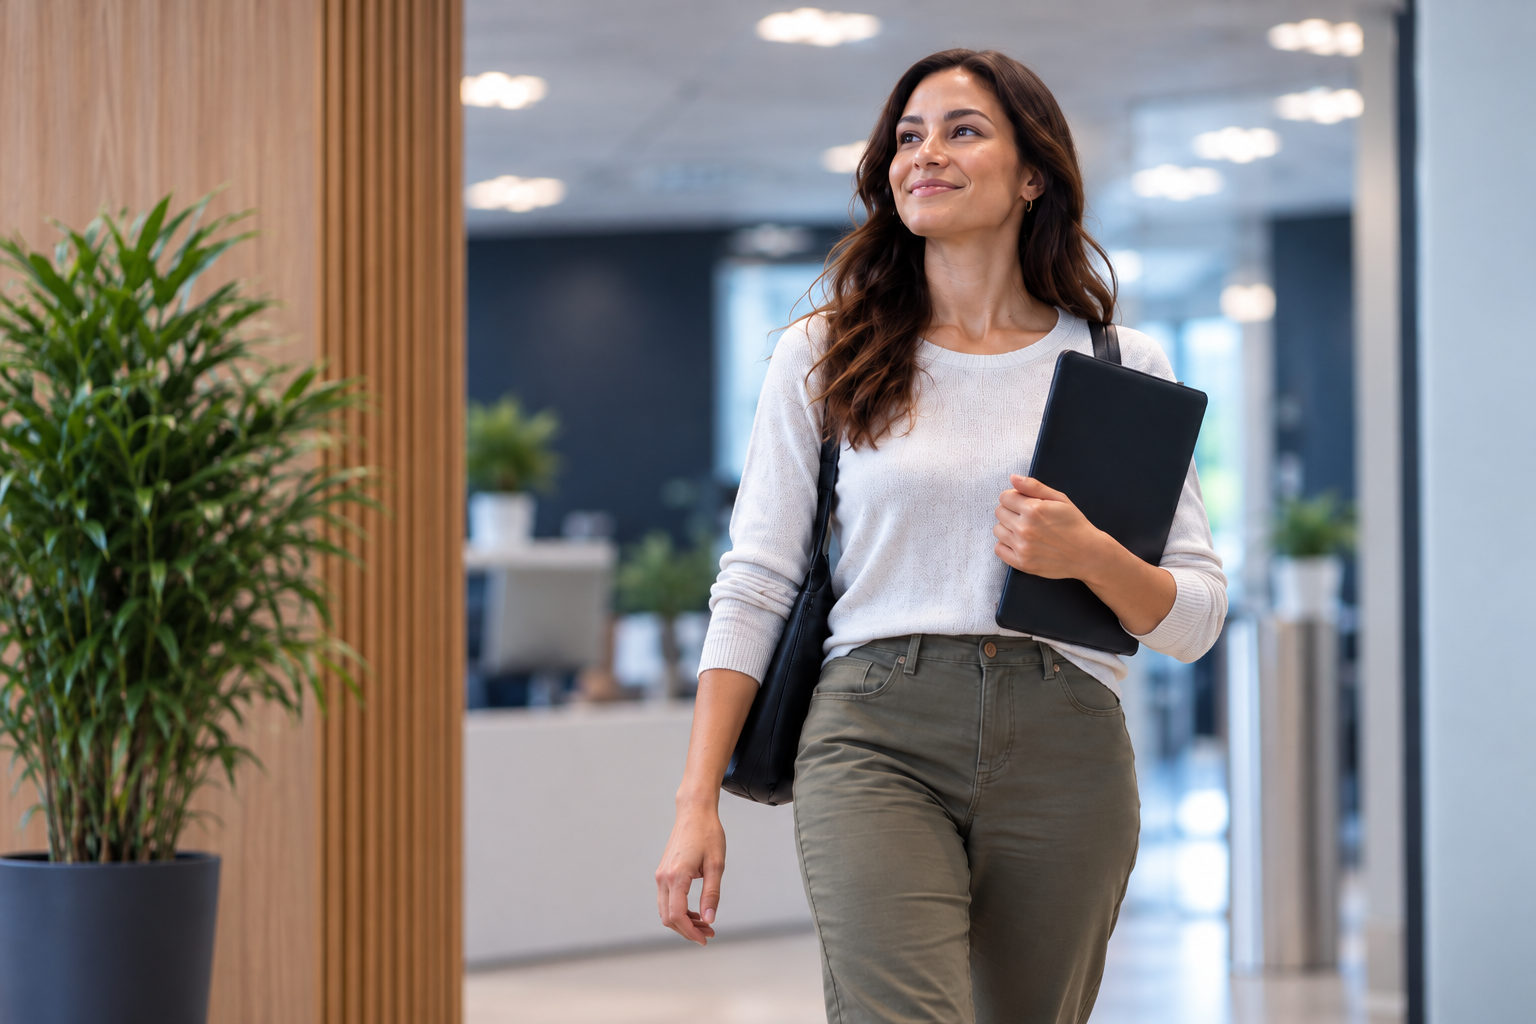
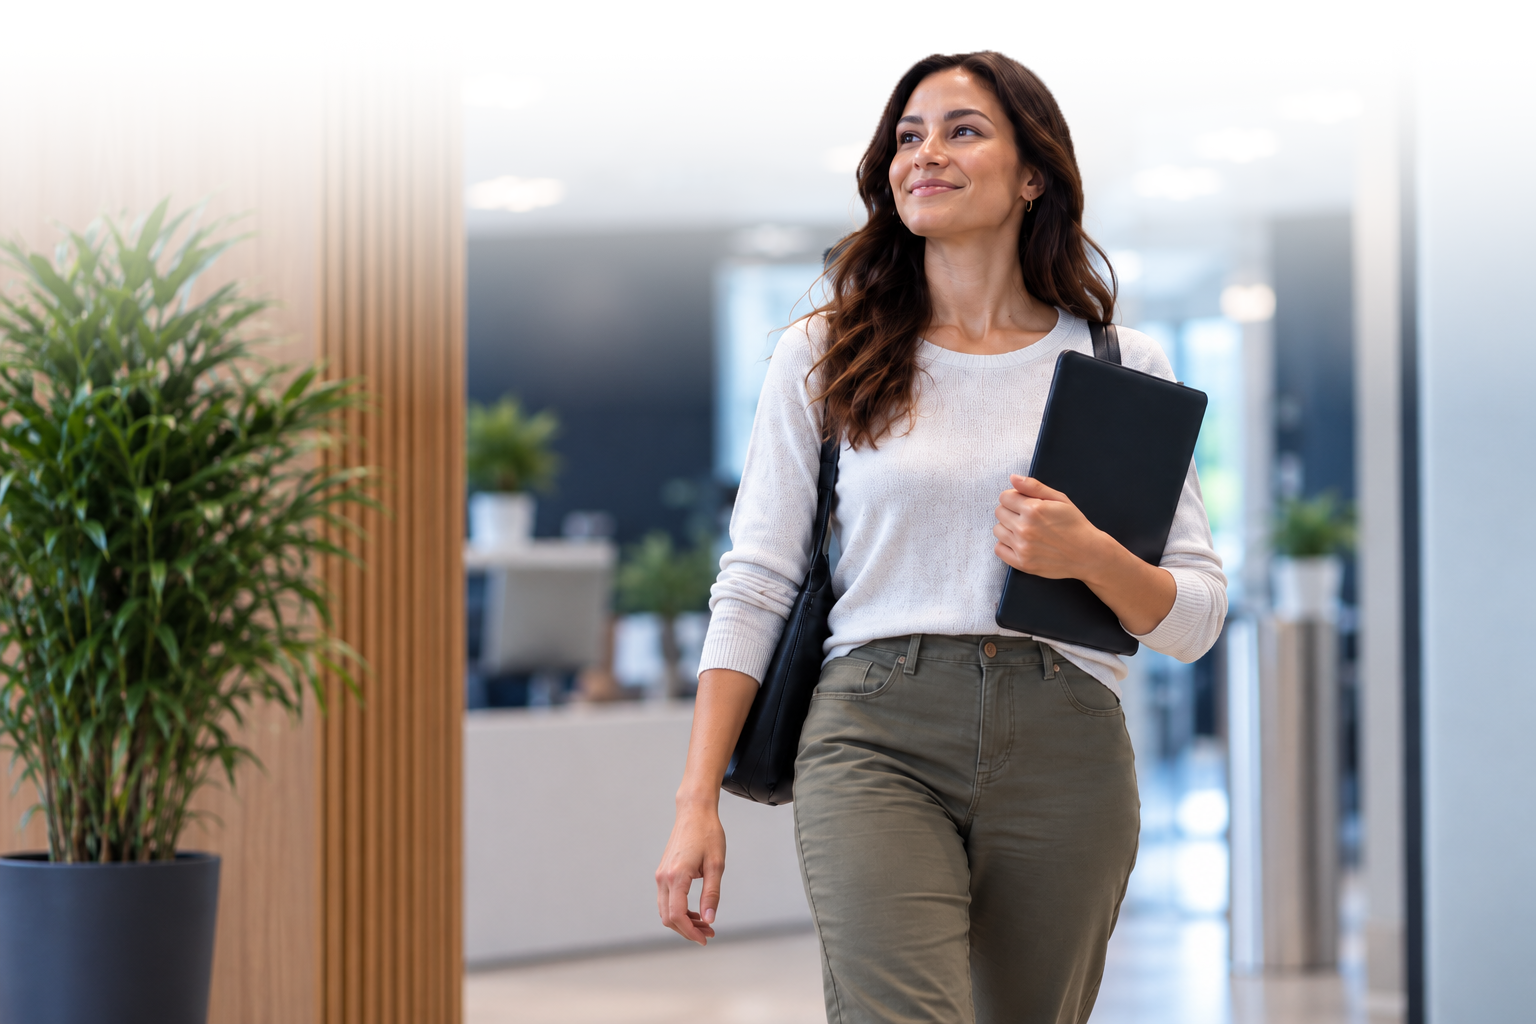
teste: imagem com background transparente

Changed region(s): [[0.0, 0.0, 1.0, 0.375]]

diff --git a/src/app/[locale]/(marketing)/components/LandingExperience/landingExperience.module.css b/src/app/[locale]/(marketing)/components/LandingExperience/landingExperience.module.css
@@ -935,17 +935,52 @@
 }
 
 .actPhoto {
+  /* Largura limitada pela coluna, por 780px e pela altura máxima (55vh a 3:2),
+     para o frame manter sempre a proporção da fotografia e não a cortar. */
   aspect-ratio: 3 / 2;
-  max-height: 100%;
+  width: min(100%, 780px, calc(55vh * 1.5));
+  max-width: none;
+  height: auto;
+  max-height: none;
   border: 0;
+  border-radius: 0 0 30px 30px;
   background: transparent;
   box-shadow: none;
-  -webkit-mask-image: linear-gradient(to bottom, transparent, #000 18%);
-  mask-image: linear-gradient(to bottom, transparent, #000 18%);
 }
 
 .actPhoto::before {
   content: none;
+}
+
+.actPhoto::after {
+  content: "";
+  position: absolute;
+  z-index: 1;
+  inset: 0;
+  background: linear-gradient(
+    to bottom,
+    rgba(8, 20, 38, 0.96) 0%,
+    rgba(8, 20, 38, 0.72) 12%,
+    rgba(8, 20, 38, 0) 34%
+  );
+  -webkit-mask-image: radial-gradient(
+    ellipse 38% 68% at var(--photo-focus, 50% 54%),
+    transparent 0%,
+    rgba(0, 0, 0, 0.18) 58%,
+    #000 100%
+  );
+  mask-image: radial-gradient(
+    ellipse 38% 68% at var(--photo-focus, 50% 54%),
+    transparent 0%,
+    rgba(0, 0, 0, 0.18) 58%,
+    #000 100%
+  );
+  pointer-events: none;
+}
+
+.actPhotoNoFade::after {
+  content: none;
+  display: none;
 }
 
 .actPhoto img {
@@ -1497,6 +1532,11 @@
 
   .actMedia {
     border-radius: 22px;
+  }
+
+  .actPhoto {
+    width: 100%;
+    border-radius: 0 0 22px 22px;
   }
 
   .pricingHeader {

diff --git a/src/app/[locale]/(marketing)/page.js b/src/app/[locale]/(marketing)/page.js
@@ -298,6 +298,7 @@ export default async function LocaleIndex() {
                     key={card.id}
                     style={{
                       "--act-color": ["#7cc2ff", "#ffd166", "#7c5cfc"][index],
+                      "--photo-focus": ["68% 54%", "54% 54%", "38% 54%"][index],
                     }}
                   >
                     <div className={styles.actCopy}>
@@ -307,7 +308,9 @@ export default async function LocaleIndex() {
                       <h3 className={styles.actTitle}>{card.title}</h3>
                       <p className={styles.actMeta}>{card.meta}</p>
                     </div>
-                    <div className={`${styles.actMedia} ${card.image ? styles.actPhoto : ""}`}>
+                    <div
+                      className={`${styles.actMedia} ${card.image ? styles.actPhoto : ""} ${index === 0 && card.image ? styles.actPhotoNoFade : ""}`}
+                    >
                       <Image
                         src={card.image || card.screenshot}
                         alt={card.title}
